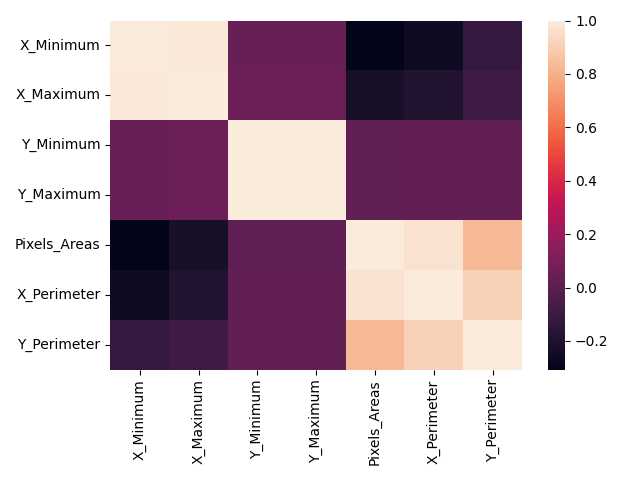
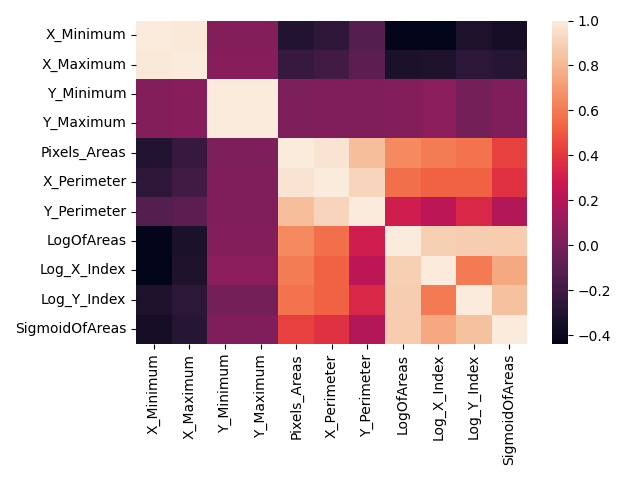
Add features to Model 1

diff --git a/main.py b/main.py
@@ -6,9 +6,10 @@ import random
 import seaborn as sns
 from sklearn.model_selection import train_test_split
 from sklearn.naive_bayes import GaussianNB
+import time
 
 
-# User-Define Functions ========================================================
+# User-Defined Functions =======================================================
 
 def save_heatmap(dataframe, filename, show=False):
     sns.heatmap(dataframe.corr())
@@ -60,7 +61,8 @@ save_heatmap(model_original_inputs, 'model_original_heatmap.png')
 # Model with correlated features
 model_1 = GaussianNB()
 model_1_features = ['X_Minimum', 'X_Maximum', 'Y_Minimum', 'Y_Maximum',
-            'Pixels_Areas', 'X_Perimeter', 'Y_Perimeter']
+                    'Pixels_Areas', 'X_Perimeter', 'Y_Perimeter', 'LogOfAreas',
+                    'Log_X_Index', 'Log_Y_Index', 'SigmoidOfAreas']
 model_1_inputs = steel_data[model_1_features]
 save_heatmap(model_1_inputs, 'model_1_heatmap.png')
 
@@ -126,15 +128,17 @@ print()
 model_2_accuracy = np.zeros((2, iterations))
 
 for i in range(iterations):
+    state_seed = random.randrange(100)
+
     # Use 5% as a test size
     training_inputs, test_inputs, training_targets, test_targets = \
-            train_test_split(model_2_inputs, targets, test_size = 0.05)
+            train_test_split(model_2_inputs, targets, test_size = 0.05, random_state = state_seed)
     model_2.fit(training_inputs, training_targets)
     model_2_accuracy[0, i] = model_2.score(test_inputs, test_targets)
 
     # Use 20% as a test size
     training_inputs, test_inputs, training_targets, test_targets = \
-            train_test_split(model_2_inputs, targets, test_size = 0.2)
+            train_test_split(model_2_inputs, targets, test_size = 0.2, random_state = state_seed)
     model_2.fit(training_inputs, training_targets)
     model_2_accuracy[1, i] = model_2.score(test_inputs, test_targets)
 
@@ -165,7 +169,7 @@ for i in range(len(targets)):
 
 true_positive_rate = true_positives / (true_positives + false_negatives)
 
-# Prediction Statistics
+# Prediction Statistics ========================================================
 print('===== Prediction Table =====')
 print('\tPastry\t\tZ Scratch\tK Scratch\tStains\t\tDirtiness\tBumps\t\tOther Faults')
 print(f'TP\t{true_positives[0]}\t\t{true_positives[1]}\t\t{true_positives[2]}\t\t{true_positives[3]}\t\t{true_positives[4]}\t\t{true_positives[5]}\t\t{true_positives[6]}')
